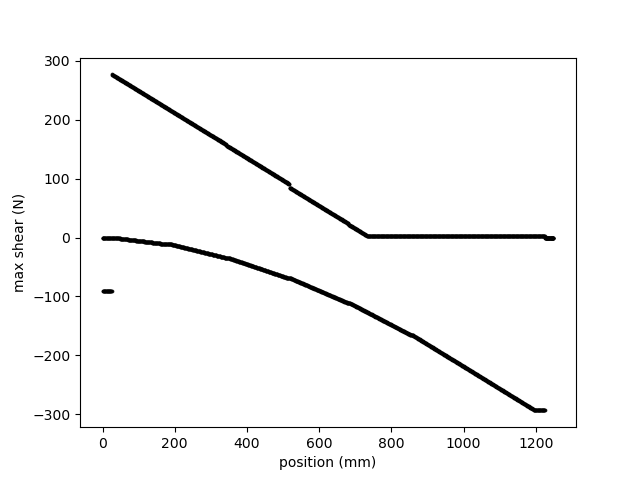
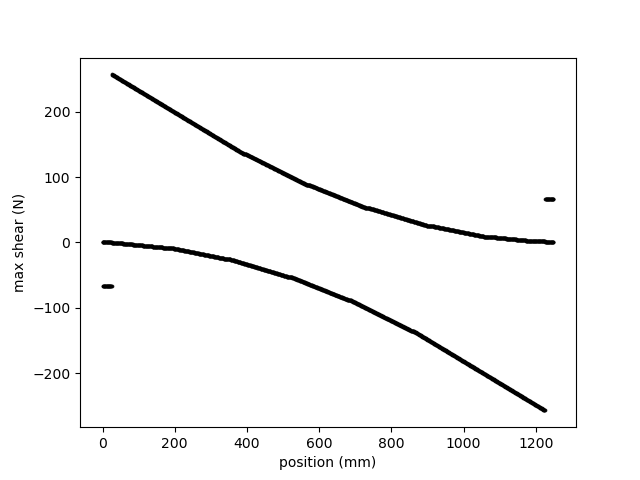
bugfixxed shear_helpers.py and shear.ipynb to include train length in envelope calculations

diff --git a/helpers/shear_helpers.py b/helpers/shear_helpers.py
@@ -62,13 +62,13 @@ def calculate_at_train_position(func, x, total_load, load_position, reaction_loc
     return data
     
 
-def envelope(func, total_load, load_position, reaction_locations, max_length):
-    load_mag = get_loads(total_load)
+def envelope(func, load, load_position, reaction_locations, max_length, train_length=0):
+    load_mag = load
     maximum = {}
     x_at_max = {}
     minimum = {}
     x_at_min = {}
-    for x in range(max_length):
+    for x in range(max_length + train_length):
         loads = find_loads(x, load_mag, load_position, max_length)
         reactions = find_reaction(loads, reaction_locations)
         shear = {k: loads.get(k, 0) + reactions.get(k, 0) for k in set(loads) | set(reactions)}
@@ -87,7 +87,7 @@ def envelope(func, total_load, load_position, reaction_locations, max_length):
                 x_at_min[pos] = x
     return maximum, x_at_max, minimum, x_at_min
 
-def plot_all_load_cases(func, total_load, load_position, reaction_locations, max_length, xlabel, ylabel, filename):
+def plot_all_load_cases(func, total_load, load_position, reaction_locations, max_length, train_length=0, xlabel="", ylabel="", filename="file.png"):
     data = []
     load_mag = get_loads(total_load)
     for x in range(max_length):
